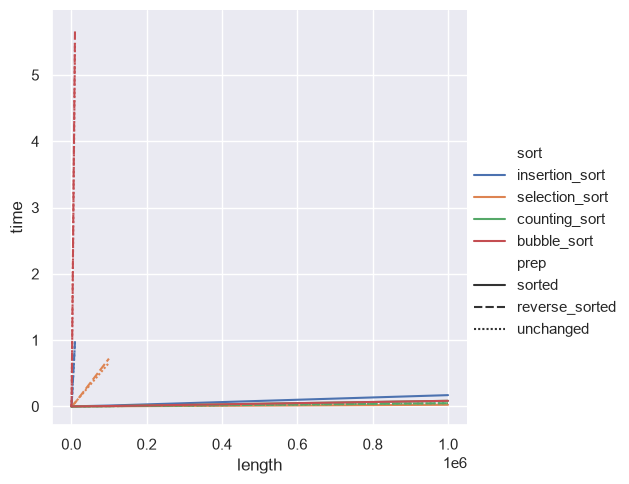
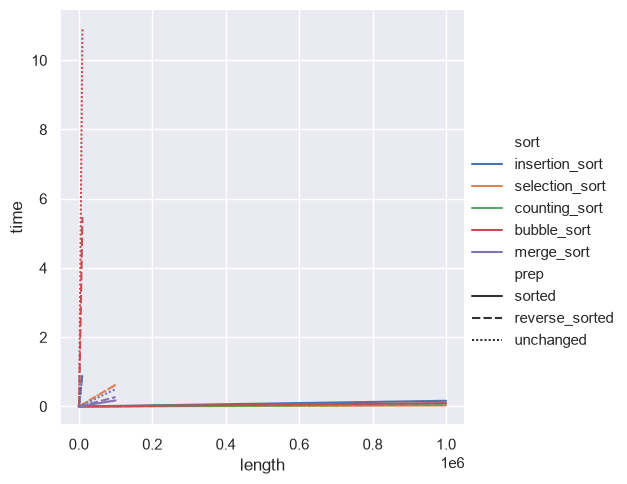
Add merge_sort, fix selection_sort/merge_sort bugs, update log and benchmark outputs
Claude-Session: https://claude.ai/code/session_01WtiKVsFmc9bUNPN254F1Aq

diff --git a/projects or assignments i turn in live here/sorting.py b/projects or assignments i turn in live here/sorting.py
@@ -100,6 +100,40 @@ def bubble_sort(lst):
                 swapp_occured = True
                 lst[i], lst[i+1] = lst[i+1], lst[i]
     return lst
+
+def merge_sort(lst):
+    def merge(right, left):
+        lst= []
+        r = l = 0
+        while(r < len(right) and l < len(left)):
+            # take index and find min
+            val = min(right[r], left[l])
+            if right[r] == val:
+                r+=1
+            else:
+                l+=1
+            lst += [val]
+
+        # while loop terminates because one or both lists has been run thru
+        # determine if another list hasn't been run through and if so append those remaining items to lst 
+        if (r == len(right)):
+            return lst + left[l:]
+        else:
+            return lst + right[r:]
+        
+    # base case: if length of lst = 1 or 0 its sorted, return the sorted lst
+    if (len(lst) <= 1): 
+        return lst
+    mid_i = len(lst) // 2 # floor division means just integer division if you use / you could produce floats
+    # I know this is binary recursion / tree recursion because we produce two branches per call
+    return merge(merge_sort(lst[:mid_i]), merge_sort(lst[mid_i:]))
+    
+        
+
+
+
+
+
                 
             
 
@@ -124,7 +158,7 @@ print(bubble_sort(lst33))
 
 # --- Part 1 -----
 
-sorts = [insertion_sort, selection_sort, counting_sort, bubble_sort]
+sorts = [insertion_sort, selection_sort, counting_sort, bubble_sort, merge_sort]
 
 # 
 # 

diff --git a/learning log.md b/learning log.md
@@ -427,32 +427,90 @@ if not(lst):
   - I'm looking at a project eueler problem I solved once upon a time with Adam's help
 
 - Hours Spent Learning: 2
-- Minutes Spent Documenting:
-- Confidence:
+- Minutes Spent Documenting: 20
+- Confidence: 4, need more experience writing recursive functions to solve problems - though i know work done this entry will help immensely
 
 ## Tuesday 9/01/2026: Learning Log 3 
 
-- Question/Problem: When should I use @lru_cache decorator?
-- When Identified:
-- Importance:
+- Question/Problem: How will I know when using @lru_cache is advantageous?
+- When Identified: Tuesday 9/01/2026: 10:45pm
+- start time: Tueday 9/01/2026 10:45pm
+- Importance: 5
 - How to Learn:
 - Insight/Answer:
 - Hours Spent Learning:
 - Minutes Spent Documenting:
 - Confidence:
 
-## 
+## Wednesday 9/02/2026: Learning Log 3
 
-- Question/Problem:
-- When Identified:
-- Importance:
-- How to Learn:
-- Insight/Answer:
-- Hours Spent Learning:
-- Minutes Spent Documenting:
-- Confidence:
+- Question/Problem: I got a RecursionError: maximum recursion depth exceeded while attempting merge sort and I want to know why
+                    Is it because my algorithm is majorly flawed or minorly flawed?
+    
+    ######### start code ############################################################
+    def merge_sort(lst):
+    def merge(right, left):
+        r = l = 0
+        while(r < len(right) or l < len(left)):
+            # take index and find min
+            val = min(right[r], left[l])
+            if right[r] == val:
+                r+=1
+            else:
+                l+=1
+            lst += val
+        # while loop terminates because one or both lists has been run thru
+        # determine if another list hasn't been run through and if so append those remaining items to lst 
+        if (r == len(right)-1 and l != len(left)-1):
+            return lst + left[l:]
+        else:
+            return lst + right[r:]
 
-## 
+    # base case: if length of lst = 1 or 0 its sorted, return the sorted lst
+    if (len(lst) <= 1): 
+        return lst
+    mid_i = len(lst) // 2 # floor division means just integer division if you use / you could produce floats
+    # I know this is binary recursion / tree recursion because we produce two branches per call
+    return merge(merge_sort(lst[:mid_i+1]), merge_sort(lst[mid_i+1:]))
+
+    ######### end code #####################################################################
+
+- When Identified: Wednesday 9/02/2026 9:45am
+- start time: Wednesday 9/02/2026 9:45am
+- Importance: 2
+- How to Learn: identify what could cause these errors in beginner merge sort attempts 
+- Insight/Answer: 
+    - here is what I found after googling: 
+    1) The Bug: Checking if len(arr) == 0: instead of if len(arr) <= 1:.
+      - this makes sense because if we set it to end at 0 all the len 1 sub arrays would get split to a lnother len 1 and a len 0, those len1 splits would continue on forever
+      - this makes sense but its not my problem
+    2) Slicing Mistakes
+       2a) Using floating division / instead of integer division // 
+           - again not my problem 
+       2b) Off-by-one slices, if you dont break it up correctly it could fail
+           - I intially thought this couldn't be my problem.. 
+           - I tried working through an initial lst merge_sort call where lst len = 2
+           - ex) lst = [9, 2]
+           - here was my two original lines relevant to slicing:
+           - 1)   mid_i = len(lst) // 2
+           - 2)   return merge(merge_sort(lst[:mid_i+1]), merge_sort(lst[mid_i+1:]))
+           - I would expect it to work like:
+           -      return merge(merge_sort(9), merge_sort(2))
+           - but I suspect it doesn't
+           - lets see: mid_i = len(lst) // 2 = 2 // 2 = 1
+           - I already see my problem but I'll spell it out: 
+               - I thought mid would correlate to the last element of the first list, but it obviosuly correlates with the first element of the second list. 
+               - since mid_i = 1 here my algorithm would make the second sub list start at lst[mid_i + 1] = lst[2] -> that is out of bounds but we probably didnt even reach that error because we hit max depth exceeded first
+               - that would mean the first list would go from 0 to but not including index 2. in other words index 0 and index 1 -> but thats what we started with... i can see how this is similar to this Bug: Checking if len(arr) == 0: instead of if len(arr) <= 1:.
+            - to correct this I need: 
+            - return merge(merge_sort(lst[:mid_i]), merge_sort(lst[mid_i:]))
+            - insight: hey I think i'm starting to understand why pythons weird slicing defaults can be nice sometime! haha!
+            - I have another problem but I'm ending this, because I found the answer to my question
+- Hours Spent Learning: 0.8
+- Minutes Spent Documenting: 20
+- Confidence: 5
+
+## Wednesday 09/02/2026: Learning Log 4
 
 - Question/Problem:
 - When Identified:
